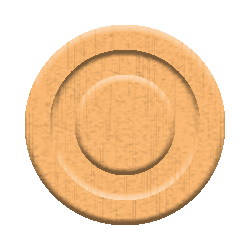
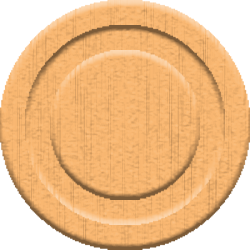
create and added on parts on board

diff --git a/style/styleSheet.scss b/style/styleSheet.scss
@@ -5,6 +5,8 @@ $playersTextColor: rgb(255, 255, 255);
 
 $background-image: "images/gui_v2.png";
 $rollButton-image: "images/rollButton.png";
+$blackChecker-image: "images/black-checker.png";
+$whiteChecker-image: "images/white-checker.png";
 
 QMainWindow { 
     image: url($background-image)
@@ -42,9 +44,20 @@ QMainWindow {
     padding-left: 25%;
 }
 
-#middleContainer{
-    background-color: $mainContainerBColor;
+#middleLayout{
+    background-color: rgba(255, 255, 255, 0.386);
+}
 
+#blackChecker{
+    background-color: white;
+    image: url($blackChecker-image);
+    border-radius: 30%;
+}
+
+#whiteChecker{
+    background-color: white;
+    image: url($whiteChecker-image);
+    border-radius: 30%;
 }
 
 #rightContainer{

diff --git a/style/styleSheet.css b/style/styleSheet.css
@@ -32,8 +32,20 @@ QMainWindow {
   padding-left: 25%;
 }
 
-#middleContainer {
-  background-color: rgba(63, 208, 27, 0);
+#middleLayout {
+  background-color: rgba(255, 255, 255, 0.386);
+}
+
+#blackChecker {
+  background-color: white;
+  image: url("images/black-checker.png");
+  border-radius: 30%;
+}
+
+#whiteChecker {
+  background-color: white;
+  image: url("images/white-checker.png");
+  border-radius: 30%;
 }
 
 #rightContainer {

diff --git a/main.py b/main.py
@@ -1,10 +1,11 @@
-from PyQt6.QtWidgets import QApplication, QMainWindow, QPushButton, QVBoxLayout, QLabel, QWidget, QHBoxLayout, QGridLayout, QSizePolicy
+from PyQt6.QtWidgets import QApplication, QMainWindow, QPushButton, QVBoxLayout, QLabel, QWidget, QHBoxLayout, QGridLayout, QLayout
 from PyQt6.QtGui import QPixmap, QIcon
 from PyQt6.QtCore import QPoint, QSize
 import sys
 
 from functions import *
 from gameLogic import *
+from checkers import *
 
 
 class UInterface(QMainWindow):
@@ -42,7 +43,8 @@ class UInterface(QMainWindow):
             # loc unde vor fi afisate piesele de joc si unde se va desfasura jocul
         middleContainer = QWidget()
         middleContainer.setObjectName("middleContainer")
-        middleLayout = QVBoxLayout()
+        middleLayout = QGridLayout()
+        middleLayout.setSpacing(0)
         middleContainer.setLayout(middleLayout)
 
         # containerul elementelor din stanga
@@ -70,9 +72,9 @@ class UInterface(QMainWindow):
         parentLayout.addWidget(rightContainer, 9)
 
         # centrarea layout ului parinte in centrul ferestrei
-        self.centralWidget = QWidget()  
-        self.centralWidget.setLayout(parentLayout)
-        self.setCentralWidget(self.centralWidget)
+        centralWidget = QWidget()  
+        centralWidget.setLayout(parentLayout)
+        self.setCentralWidget(centralWidget)
 
 
         # adaugarea de elemente in fiecare container
@@ -82,24 +84,86 @@ class UInterface(QMainWindow):
         leftLayout.addWidget(QLabel("Player2", objectName = "labelPlayer2"))
 
             # adaugarea elementelor din mijloc
-        middleLayout.addWidget(QLabel())
+        bchecker1 = Checkers("black", middleContainer, 785, 17)
+        bchecker2 = Checkers("black", middleContainer, 785, 77)
+        bchecker3 = Checkers("black", middleContainer, 30, 17)
+        bchecker4 = Checkers("black", middleContainer, 30, 77)
+        bchecker5 = Checkers("black", middleContainer, 30, 137)
+        bchecker6 = Checkers("black", middleContainer, 30, 197)
+        bchecker7 = Checkers("black", middleContainer, 30, 257)
+        bchecker8 = Checkers("black", middleContainer, 258, 675)
+        bchecker9 = Checkers("black", middleContainer, 258, 615)
+        bchecker10 = Checkers("black", middleContainer, 258, 555)
+        bchecker11 = Checkers("black", middleContainer, 478, 675)
+        bchecker12 = Checkers("black", middleContainer, 478, 615)
+        bchecker13 = Checkers("black", middleContainer, 478, 555)
+        bchecker14 = Checkers("black", middleContainer, 478, 495)
+        bchecker15 = Checkers("black", middleContainer, 478, 435)
+        middleLayout.addWidget(bchecker1, 0, 0)
+        middleLayout.addWidget(bchecker2, 0, 0)
+        middleLayout.addWidget(bchecker3, 0, 0)
+        middleLayout.addWidget(bchecker4, 0, 0)
+        middleLayout.addWidget(bchecker5, 0, 0)
+        middleLayout.addWidget(bchecker6, 0, 0)
+        middleLayout.addWidget(bchecker7, 0, 0)
+        middleLayout.addWidget(bchecker8, 0, 0)
+        middleLayout.addWidget(bchecker9, 0, 0)
+        middleLayout.addWidget(bchecker10, 0, 0)
+        middleLayout.addWidget(bchecker11, 0, 0)
+        middleLayout.addWidget(bchecker12, 0, 0)
+        middleLayout.addWidget(bchecker13, 0, 0)
+        middleLayout.addWidget(bchecker14, 0, 0)
+        middleLayout.addWidget(bchecker15, 0, 0)
+        # middleLayout.addSpacing(2000)
+
+        wchecker1 = Checkers("white", middleContainer, 785, 17)
+        wchecker2 = Checkers("white", middleContainer, 785, 77)
+        wchecker3 = Checkers("white", middleContainer, 30, 17)
+        wchecker4 = Checkers("white", middleContainer, 30, 77)
+        wchecker5 = Checkers("white", middleContainer, 30, 137)
+        wchecker6 = Checkers("white", middleContainer, 30, 197)
+        wchecker7 = Checkers("white", middleContainer, 30, 257)
+        wchecker8 = Checkers("white", middleContainer, 258, 675)
+        wchecker9 = Checkers("white", middleContainer, 258, 615)
+        wchecker10 = Checkers("white", middleContainer, 258, 555)
+        wchecker11 = Checkers("white", middleContainer, 478, 675)
+        wchecker12 = Checkers("white", middleContainer, 478, 615)
+        wchecker13 = Checkers("white", middleContainer, 478, 555)
+        wchecker14 = Checkers("white", middleContainer, 478, 495)
+        wchecker15 = Checkers("white", middleContainer, 640, 480)
+        middleLayout.addWidget(bchecker1, 0, 1)
+        middleLayout.addWidget(bchecker2, 0, 1)
+        middleLayout.addWidget(bchecker3, 0, 1)
+        middleLayout.addWidget(bchecker4, 0, 1)
+        middleLayout.addWidget(bchecker5, 0, 1)
+        middleLayout.addWidget(bchecker6, 0, 1)
+        middleLayout.addWidget(bchecker7, 0, 1)
+        middleLayout.addWidget(bchecker8, 0, 1)
+        middleLayout.addWidget(bchecker9, 0, 1)
+        middleLayout.addWidget(bchecker10, 0, 1)
+        middleLayout.addWidget(bchecker11, 0, 1)
+        middleLayout.addWidget(bchecker12, 0, 1)
+        middleLayout.addWidget(bchecker13, 0, 1)
+        middleLayout.addWidget(bchecker14, 0, 1)
+        middleLayout.addWidget(bchecker15, 0, 1)
 
             # adaugarea elementelor din dreapta
                 # adaugarea containerului pentru piesele albe in containerul drept
         rightLayout.addWidget(whiteCheckersContainer)
                 # crearea butonului de Roll
-        self.rollButton = QPushButton(self)
-        self.rollButton.setObjectName("rollButton")
-        self.rollButton.setFixedSize(QSize(90, 90))
+        rollButton = QPushButton(self)
+        rollButton.setObjectName("rollButton")
+        rollButton.setFixedSize(QSize(90, 90))
                 # functia roll care adauga widgetul in diceLayout si returneaza lista cu raruri, care sunt loate de clasa gamoLogic si stocate prin setDices
-        self.rollButton.clicked.connect(lambda: self.gameLogic.setDices(dices=roll(self.diceLayout)))
-        rightLayout.addWidget(self.rollButton)
+        rollButton.clicked.connect(lambda: self.gameLogic.setDices(dices=roll(self.diceLayout)))
+        rightLayout.addWidget(rollButton)
                 # adaugarea containerului pentru piesele negre in containerul drept
-        rightLayout.addWidget(blackCheckersContainer) 
+        rightLayout.addWidget(blackCheckersContainer)
 
 
 if __name__ == '__main__':
     app = QApplication(sys.argv)
+    
     with open('style/styleSheet.css', 'r') as file:
         stylesheet = file.read()
     app.setStyleSheet(stylesheet)

diff --git a/checkers.py b/checkers.py
@@ -1,0 +1,16 @@
+from PyQt6.QtWidgets import QPushButton
+
+class Checkers(QPushButton):
+    def __init__(self, team, parent, x, y):
+        super().__init__()
+        self.setObjectName(f'{team}Checker')
+        self.setFixedSize(60,60)
+        self.parent = parent
+        self.x = x
+        self.y = y
+
+        self.clicked.connect(self.test_movePosition)
+
+    def test_movePosition(self):
+        self.move(self.x, self.y)
+        print(self.parent.size())

diff --git a/functions.py b/functions.py
@@ -1,4 +1,4 @@
-from PyQt6.QtWidgets import QLabel
+from PyQt6.QtWidgets import QLabel, QPushButton
 from PyQt6.QtGui import QPixmap
 
 from random import randint
@@ -27,3 +27,4 @@ def roll(diceLayout):
         diceLayout.addWidget(createDiceObject(f"images/dice{getDice}.png"), 0, index)
 
     return dices
+
